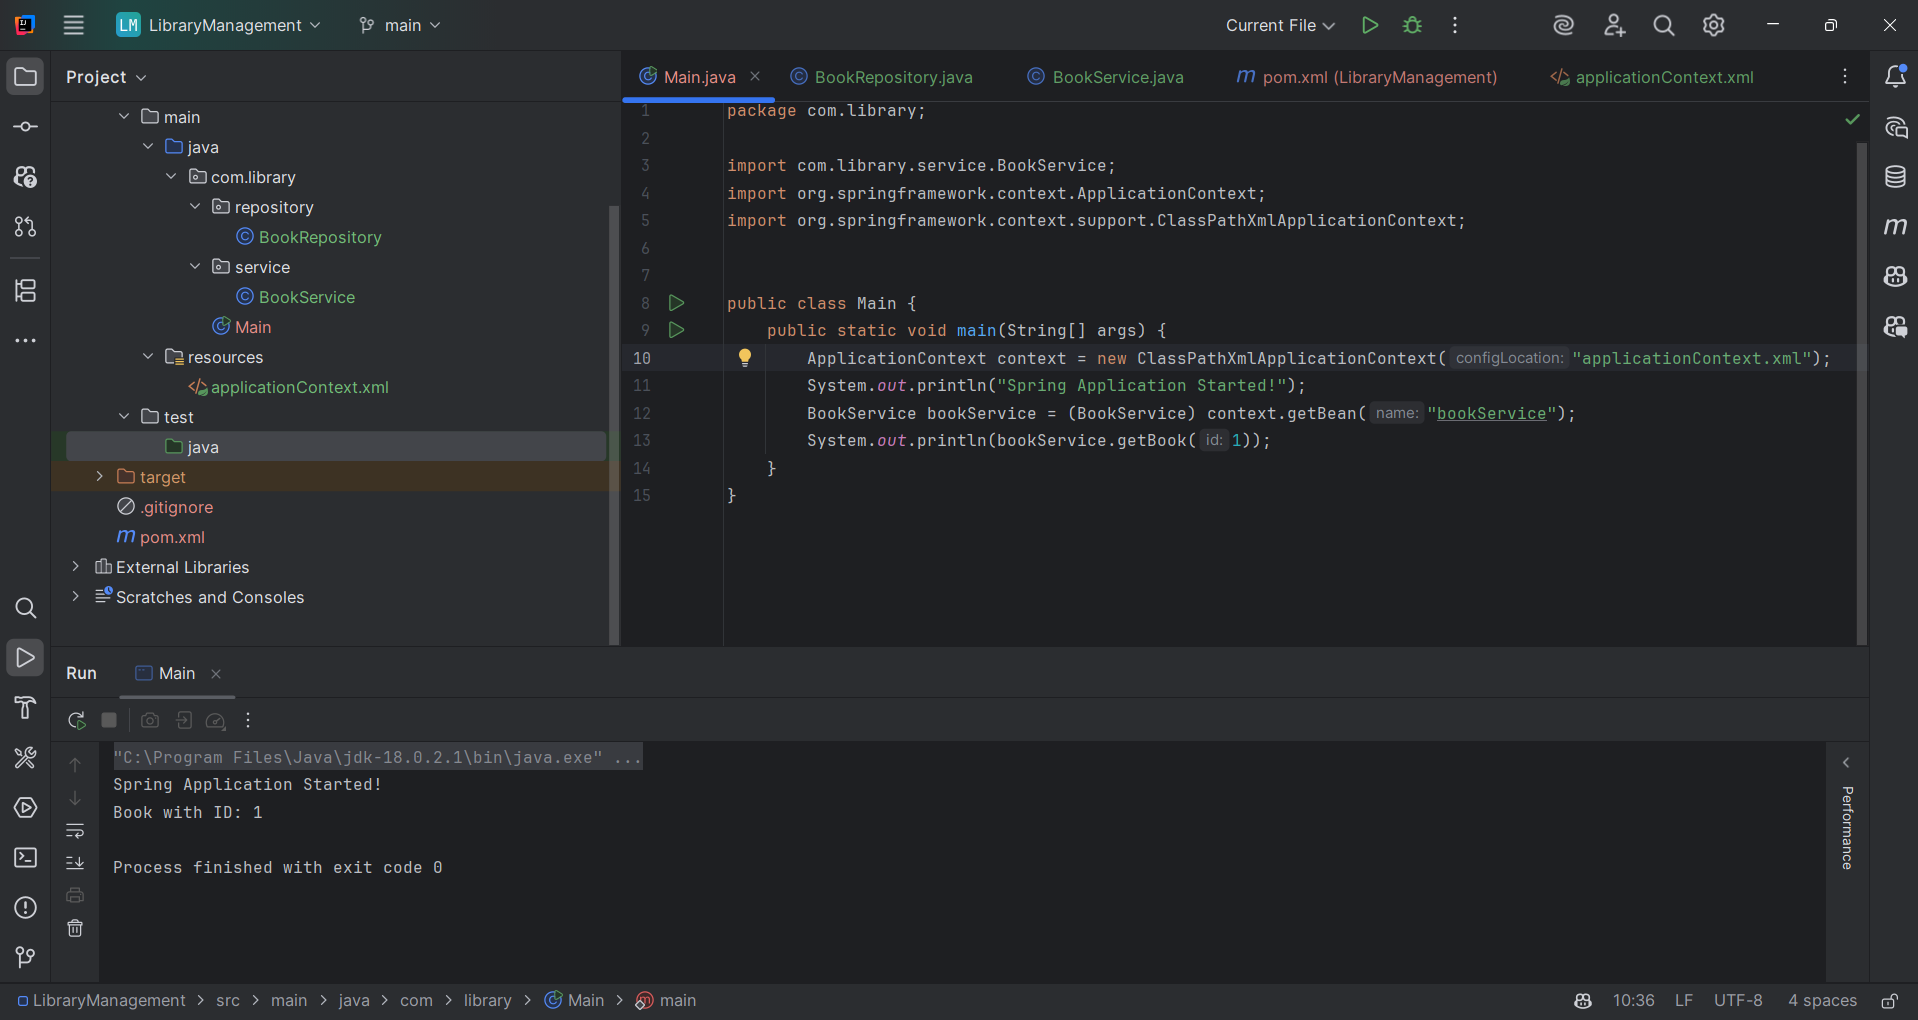
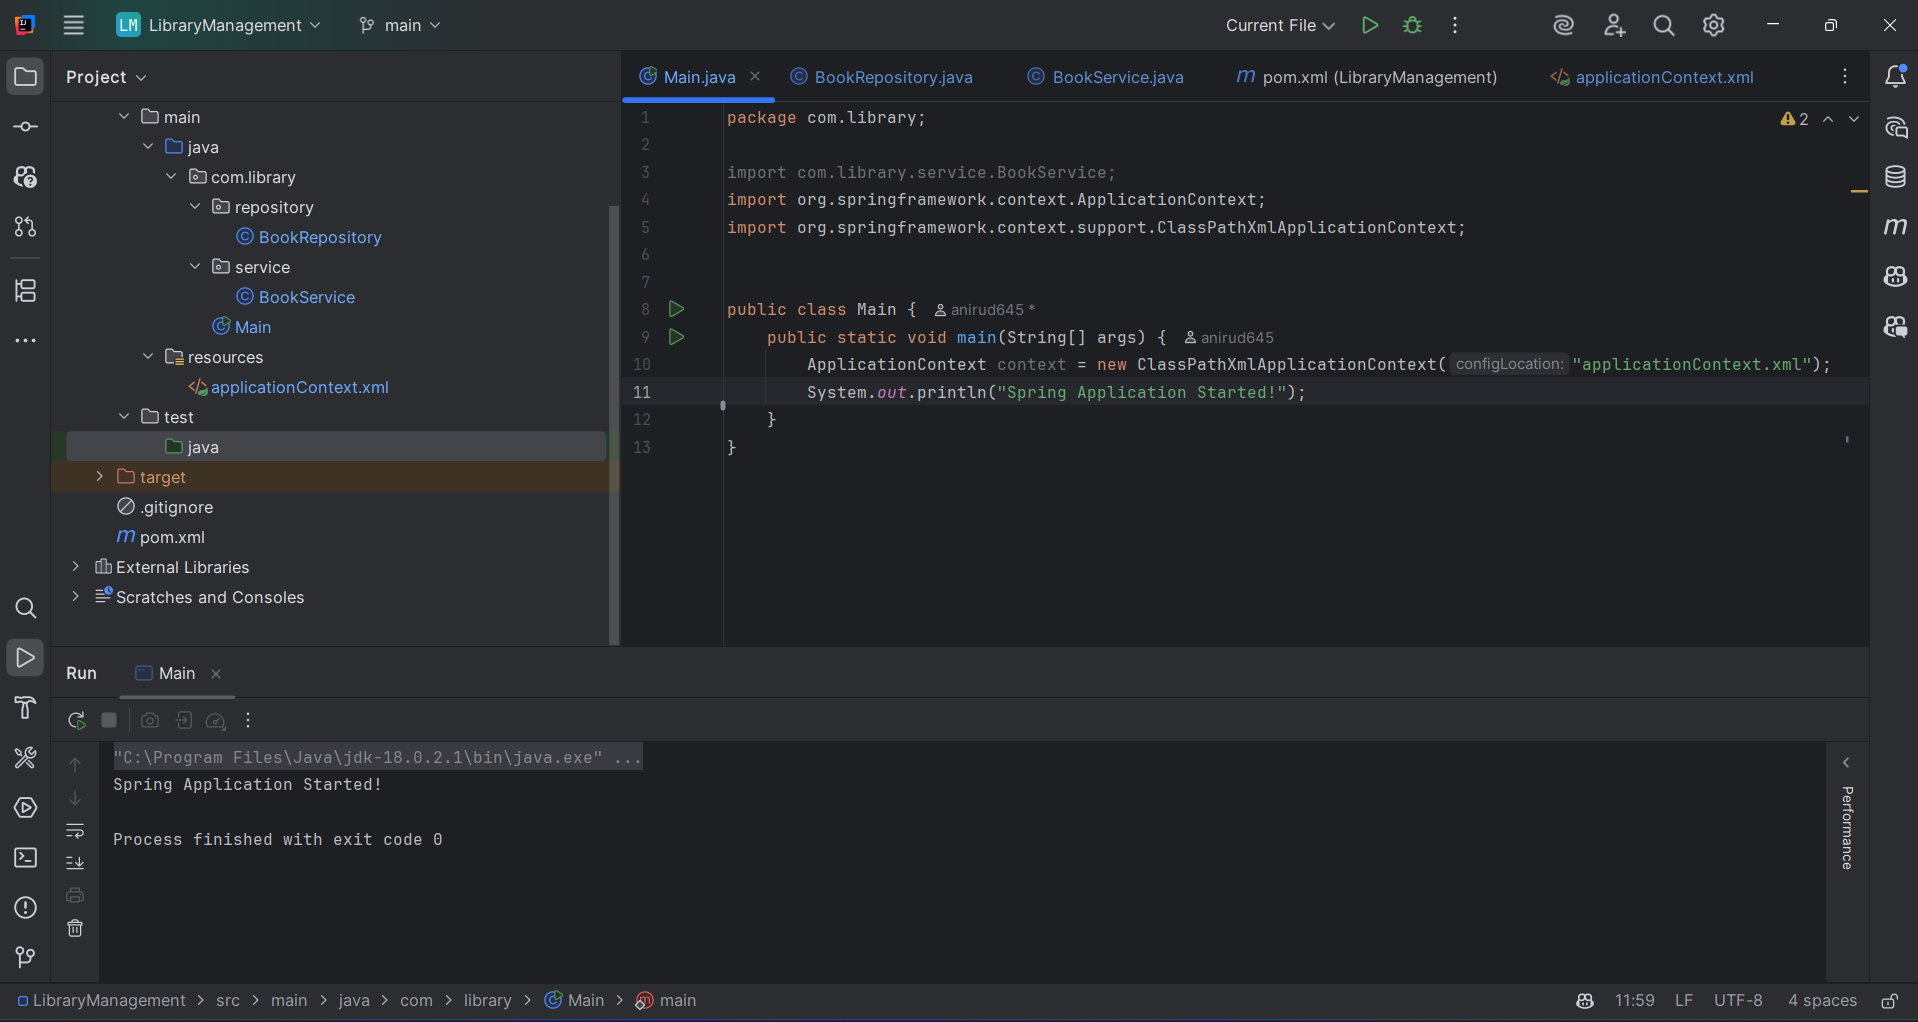
Completed Dependency Injection Exercise and Updated Folder Structure

diff --git a/Week_3/week_3_Spring_Core_and_Maven/Ex_2_Implementing_Dependency_Injection/Code/LibraryManagement/src/main/java/com/library/service/BookService.java b/Week_3/week_3_Spring_Core_and_Maven/Ex_2_Implementing_Dependency_Injection/Code/LibraryManagement/src/main/java/com/library/service/BookService.java
@@ -1,0 +1,15 @@
+package com.library.service;
+
+import com.library.repository.BookRepository;
+
+public class BookService {
+    private BookRepository bookRepository;
+    public void setBookRepository(BookRepository bookRepository) {
+        this.bookRepository = bookRepository;
+    }
+    public void findBook(String bookName) {
+        // Logic to find the book
+        System.out.println("Searching for book: " + bookName);
+        bookRepository.findBook(bookName);
+    }
+}

diff --git a/Week_3/week_3_Spring_Core_and_Maven/Ex_1_Configuring_Basic_Spring_Application/Code/LibraryManagement/src/main/java/com/library/service/BookService.java b/Week_3/week_3_Spring_Core_and_Maven/Ex_1_Configuring_Basic_Spring_Application/Code/LibraryManagement/src/main/java/com/library/service/BookService.java
@@ -3,14 +3,5 @@ package com.library.service;
 import com.library.repository.BookRepository;
 
 public class BookService {
-    private BookRepository bookRepository;
 
-    // Setter for dependency injection
-    public void setBookRepository(BookRepository bookRepository) {
-        this.bookRepository = bookRepository;
-    }
-
-    public String getBook(int id) {
-        return bookRepository.findBookById(id);
-    }
 }

diff --git a/Week_3/week_3_Spring_Core_and_Maven/Ex_2_Implementing_Dependency_Injection/Code/LibraryManagement/src/main/java/com/library/Main.java b/Week_3/week_3_Spring_Core_and_Maven/Ex_2_Implementing_Dependency_Injection/Code/LibraryManagement/src/main/java/com/library/Main.java
@@ -9,5 +9,7 @@ public class Main {
     public static void main(String[] args) {
         ApplicationContext context = new ClassPathXmlApplicationContext("applicationContext.xml");
         System.out.println("Spring Application Started!");
+        BookService bookService = context.getBean("bookService", BookService.class);
+        bookService.findBook("Effective Java");
     }
 }

diff --git a/Week_3/week_3_Spring_Core_and_Maven/Ex_2_Implementing_Dependency_Injection/Code/LibraryManagement/src/main/java/com/library/repository/BookRepository.java b/Week_3/week_3_Spring_Core_and_Maven/Ex_2_Implementing_Dependency_Injection/Code/LibraryManagement/src/main/java/com/library/repository/BookRepository.java
@@ -1,0 +1,8 @@
+package com.library.repository;
+
+public class BookRepository {
+    public void findBook(String bookName) {
+        // Logic to save the book
+        System.out.println("Book '" + bookName + "' found in the repository.");
+    }
+}

diff --git a/Week_3/week_3_Spring_Core_and_Maven/Ex_1_Configuring_Basic_Spring_Application/Code/LibraryManagement/src/main/java/com/library/repository/BookRepository.java b/Week_3/week_3_Spring_Core_and_Maven/Ex_1_Configuring_Basic_Spring_Application/Code/LibraryManagement/src/main/java/com/library/repository/BookRepository.java
@@ -1,8 +1,5 @@
 package com.library.repository;
 
 public class BookRepository {
-    public String findBookById(int id) {
-        // Dummy implementation for demonstration
-        return "Book with ID: " + id;
-    }
+
 }
